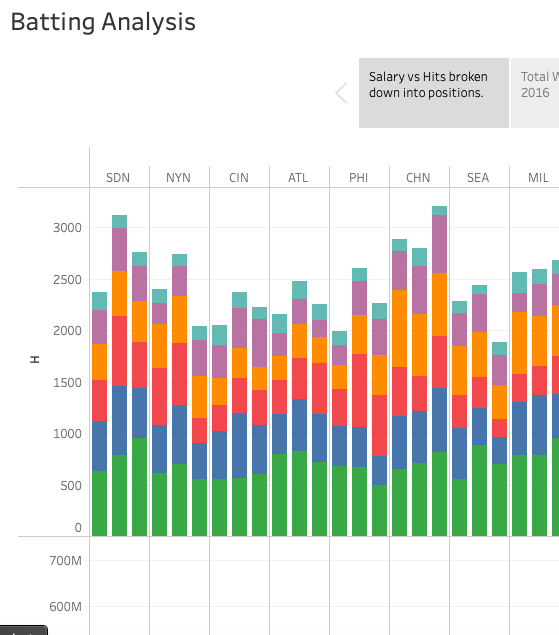
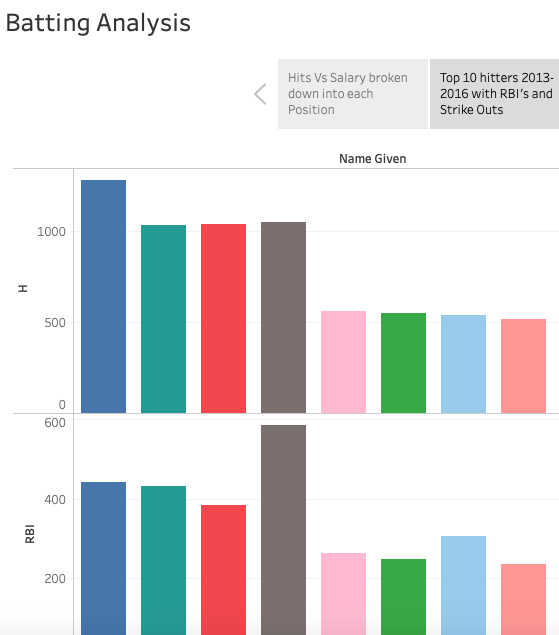
final changes

diff --git a/templates/calvin.html b/templates/calvin.html
@@ -28,10 +28,10 @@
 				<div class="inner">
 					<header class="align-center">
 						<h2>Batting and Player Salary Analysis</h2>
-						<p>(20XX - 20XX) </p>
+						<p>(2013 - 2016) </p>
 					</header>
-					<p>We sat out to answer the question, Does Money Win Championships? How does money correlate to Wins? Is there a relationship between the two, and if so, by how much? First, we began by loading in salary data upon the start of a season and track how many wins a ball club notched during the remainder of the regular season. From there we made calculations based on percentage difference from previous season and the rise and fall of salary and wins. Additionally, we used Tableau's preloaded 'Moving Average' functions to see the relationship between our two metrics. Diving into the leagues and divisions we noticed two outliers in the National League Central and American League East divisions that raised some more quesstions that we delved into. </p>
-					<p>By using the linear regression models, we were able to see that there was an ever-so-slight positive correlation between a team's increase in salary numbers to an increase in the number of wins. With an R value approaching 0.1, there is not enough direct evidence to ensure that throwing money at a team ensures success. There are a myriad of factors that go into a team's ability to be successful at the professional level as one would assume. Further analysis drilling down to player position analysis can be navigated to at the top of the page. </p>
+					<p>We were looking to see if spending the big bucks could bring you the most hits. We broke the data into specific years (2013-2016) and took the total sum of hits for each team to compare. We then took the total salary that each team spent on players during those years and compared them with a stacked bar graph. After reviewing the data and the charts, we could not show any concrete results to show that the more money you spend the more hits you get. To see if there was any other connection we could make, we split each team into individual positions to show exactly where the money was going and what positions seem to produce the most runs. This data showed that each team was spending the most money on obtaining outfielders, and the least money on catchers. This trend was also seen in hits as the data shows that outfielders produce the most hits for each team, and catchers produce the least. </p>
+					<p>Wanted to see how the top 10 hitters stacked up against each other with strike outs and RBI’s. Split the data to take the top 10 hitters from 2013-2016 based on the number of actual hits. We then split the data into strike outs and RBI’s for each player to see how they compared. After looking at the data and the charts, there was no correlation we could make between their hits and RBI’s/Strike-outs. 10 Lowest hitting teams were Houston, Milwaukee, Philadelphia, Oakland, Cincinnati, Atlanta, Tampa Bay, Seattle, New York, San Diego. </p>
 					<div class="flex flex-2">
 						<article>
 							<div class="image fit">
@@ -54,7 +54,7 @@
 							</header>
 							<p>Player salaries based on pitching and further analysis. </p>
 							<footer>
-								<a href="{{url_for('sam')}}" class="button special">More</a>
+								<a href="{{url_for('tiffany')}}" class="button special">More</a>
 							</footer>
 						</article>
 					</div>
@@ -65,7 +65,7 @@
 				<div class="row">
 					<div class="col-md-12">
 						<div class="col-md-12">
-							<div class='tableauPlaceholder' id='viz1596681637519' style='position: relative'><noscript><a href='#'><img alt=' ' src='https:&#47;&#47;public.tableau.com&#47;static&#47;images&#47;6R&#47;6RGFQHDG4&#47;1_rss.png' style='border: none' /></a></noscript><object class='tableauViz'  style='display:none;'><param name='host_url' value='https%3A%2F%2Fpublic.tableau.com%2F' /> <param name='embed_code_version' value='3' /> <param name='path' value='shared&#47;6RGFQHDG4' /> <param name='toolbar' value='yes' /><param name='static_image' value='https:&#47;&#47;public.tableau.com&#47;static&#47;images&#47;6R&#47;6RGFQHDG4&#47;1.png' /> <param name='animate_transition' value='yes' /><param name='display_static_image' value='yes' /><param name='display_spinner' value='yes' /><param name='display_overlay' value='yes' /><param name='display_count' value='yes' /><param name='language' value='en' /><param name='filter' value='publish=yes' /></object></div>                <script type='text/javascript'>                    var divElement = document.getElementById('viz1596681637519');                    var vizElement = divElement.getElementsByTagName('object')[0];                    vizElement.style.width='1016px';vizElement.style.height='991px';                    var scriptElement = document.createElement('script');                    scriptElement.src = 'https://public.tableau.com/javascripts/api/viz_v1.js';                    vizElement.parentNode.insertBefore(scriptElement, vizElement);                </script>
+							<div class='tableauPlaceholder' id='viz1596764536134' style='position: relative'><noscript><a href='#'><img alt=' ' src='https:&#47;&#47;public.tableau.com&#47;static&#47;images&#47;Hi&#47;Hitting&#47;BattingAnalysis&#47;1_rss.png' style='border: none' /></a></noscript><object class='tableauViz'  style='display:none;'><param name='host_url' value='https%3A%2F%2Fpublic.tableau.com%2F' /> <param name='embed_code_version' value='3' /> <param name='site_root' value='' /><param name='name' value='Hitting&#47;BattingAnalysis' /><param name='tabs' value='no' /><param name='toolbar' value='yes' /><param name='static_image' value='https:&#47;&#47;public.tableau.com&#47;static&#47;images&#47;Hi&#47;Hitting&#47;BattingAnalysis&#47;1.png' /> <param name='animate_transition' value='yes' /><param name='display_static_image' value='yes' /><param name='display_spinner' value='yes' /><param name='display_overlay' value='yes' /><param name='display_count' value='yes' /><param name='language' value='en' /><param name='filter' value='publish=yes' /></object></div>                <script type='text/javascript'>                    var divElement = document.getElementById('viz1596764536134');                    var vizElement = divElement.getElementsByTagName('object')[0];                    vizElement.style.width='1016px';vizElement.style.height='991px';                    var scriptElement = document.createElement('script');                    scriptElement.src = 'https://public.tableau.com/javascripts/api/viz_v1.js';                    vizElement.parentNode.insertBefore(scriptElement, vizElement);                </script>
 						</div>
 					</div>
 				</div>

diff --git a/templates/sam.html b/templates/sam.html
@@ -28,10 +28,10 @@
 				<div class="inner">
 					<header class="align-center">
 						<h2>Position Groups Salary Analysis</h2>
-						<p>(20XX - 20XX) </p>
+						<p>(2011 - 2019) </p>
 					</header>
-					<p>We sat out to answer the question, Does Money Win Championships? How does money correlate to Wins? Is there a relationship between the two, and if so, by how much? First, we began by loading in salary data upon the start of a season and track how many wins a ball club notched during the remainder of the regular season. From there we made calculations based on percentage difference from previous season and the rise and fall of salary and wins. Additionally, we used Tableau's preloaded 'Moving Average' functions to see the relationship between our two metrics. Diving into the leagues and divisions we noticed two outliers in the National League Central and American League East divisions that raised some more quesstions that we delved into. </p>
-					<p>By using the linear regression models, we were able to see that there was an ever-so-slight positive correlation between a team's increase in salary numbers to an increase in the number of wins. With an R value approaching 0.1, there is not enough direct evidence to ensure that throwing money at a team ensures success. There are a myriad of factors that go into a team's ability to be successful at the professional level as one would assume. Further analysis drilling down to player position analysis can be navigated to at the top of the page. </p>
+					<p>We decided to go deeper than just surface level team salary analysis. One such analysis is looking at how teams allocate their resources between pitchers and position players. The graphs below look at the percentage of each team’s payroll dedicated to pitchers and position players from 2011-2019 and how that correlates to statistics such as ERA, WAR (Wins Above Replacement), and Wins. </p>
+					<p>The first set of graphs put the payroll percentages into bins and display the average ERA and WAR for each team within each bin. The next two graphs show in order from highest to lowest percentages of payroll each team has spent over the timeframe 2011-2019. The last two look at payroll percentages for each season, sorted by team, and with different colors representing their win percentages. </p>
 					<div class="flex flex-2">
 						<article>
 							<div class="image fit">

diff --git a/templates/tiffany.html b/templates/tiffany.html
@@ -28,10 +28,9 @@
 				<div class="inner">
 					<header class="align-center">
 						<h2>Pitching and Player Salary Analysis</h2>
-						<p>(20XX - 20XX) </p>
+						<p>(2011 - 2015) </p>
 					</header>
-					<p>We sat out to answer the question, Does Money Win Championships? How does money correlate to Wins? Is there a relationship between the two, and if so, by how much? First, we began by loading in salary data upon the start of a season and track how many wins a ball club notched during the remainder of the regular season. From there we made calculations based on percentage difference from previous season and the rise and fall of salary and wins. Additionally, we used Tableau's preloaded 'Moving Average' functions to see the relationship between our two metrics. Diving into the leagues and divisions we noticed two outliers in the National League Central and American League East divisions that raised some more quesstions that we delved into. </p>
-					<p>By using the linear regression models, we were able to see that there was an ever-so-slight positive correlation between a team's increase in salary numbers to an increase in the number of wins. With an R value approaching 0.1, there is not enough direct evidence to ensure that throwing money at a team ensures success. There are a myriad of factors that go into a team's ability to be successful at the professional level as one would assume. Further analysis drilling down to player position analysis can be navigated to at the top of the page. </p>
+					<p>When evaluating earned run average (ERA) and starting pitcher salary, an individual would assume that a high salary associates to a lower ERA. There is not a consistent correlation to salary and starting pitcher performance. Players with the lowest salary per innings pitched on the team would assumptively have a higher ERA. A “good” ERA performance averages around 3.0, a lower pitcher ERA associates to valuable pitcher performance. In this model the pitcher with the lowest ERA is also paid the lowest salary per inning. ERA does not necessarily guarantee a high pitcher salary. In the final visualizations, there is a display of each teams ERA average over the years. ERA’s are not necessarily consistent due to variables such as pitcher, batter and fielding player abilities. </p>
 					<div class="flex flex-2">
 						<article>
 							<div class="image fit">

diff --git a/templates/scott.html b/templates/scott.html
@@ -30,7 +30,7 @@
 						<h2>Ball Club Salary Analysis</h2>
 						<p>(2000 - 2019) </p>
 					</header>
-					<p>We set out to answer the question, does money win championships? How does money correlate to wins? Is there a relationship between the two, and if so, by how much? First, we began by loading in salary data upon the start of a season and track how many wins a ball club notched during the remainder of the regular season. From there we made calculations based on percentage difference from previous season and the rise and fall of salary and wins. Additionally, we used Tableau's preloaded 'Moving Average' functions to see the relationship between our two metrics. Diving into the leagues and divisions we noticed two outliers in the National League Central and American League East divisions that raised some more quesstions that we delved into. </p>
+					<p>We set out to answer the question, does money win championships? How does money correlate to wins? Is there a relationship between the two, and if so, by how much? First, we began by loading in salary data upon the start of a season and track how many wins a ball club notched during the remainder of the regular season. From there we made calculations based on percentage difference from previous season and the rise and fall of salary and wins. Additionally, we used Tableau's preloaded 'Moving Average' functions to see the relationship between our two metrics. Diving into the leagues and divisions we noticed two outliers in the National League Central and American League East divisions that raised some more questions that we delved into. </p>
 					<p>By using the linear regression models, we were able to see that there was an ever-so-slight positive correlation between a team's increase in salary numbers to an increase in the number of wins. With an R value approaching 0.1, there is not enough direct evidence to ensure that throwing money at a team ensures success. There are a myriad of factors that go into a team's ability to be successful at the professional level as one would assume. Further analysis drilling down to player position analysis can be navigated to at the top of the page. </p>
 					<div class="flex flex-2">
 						<article>
